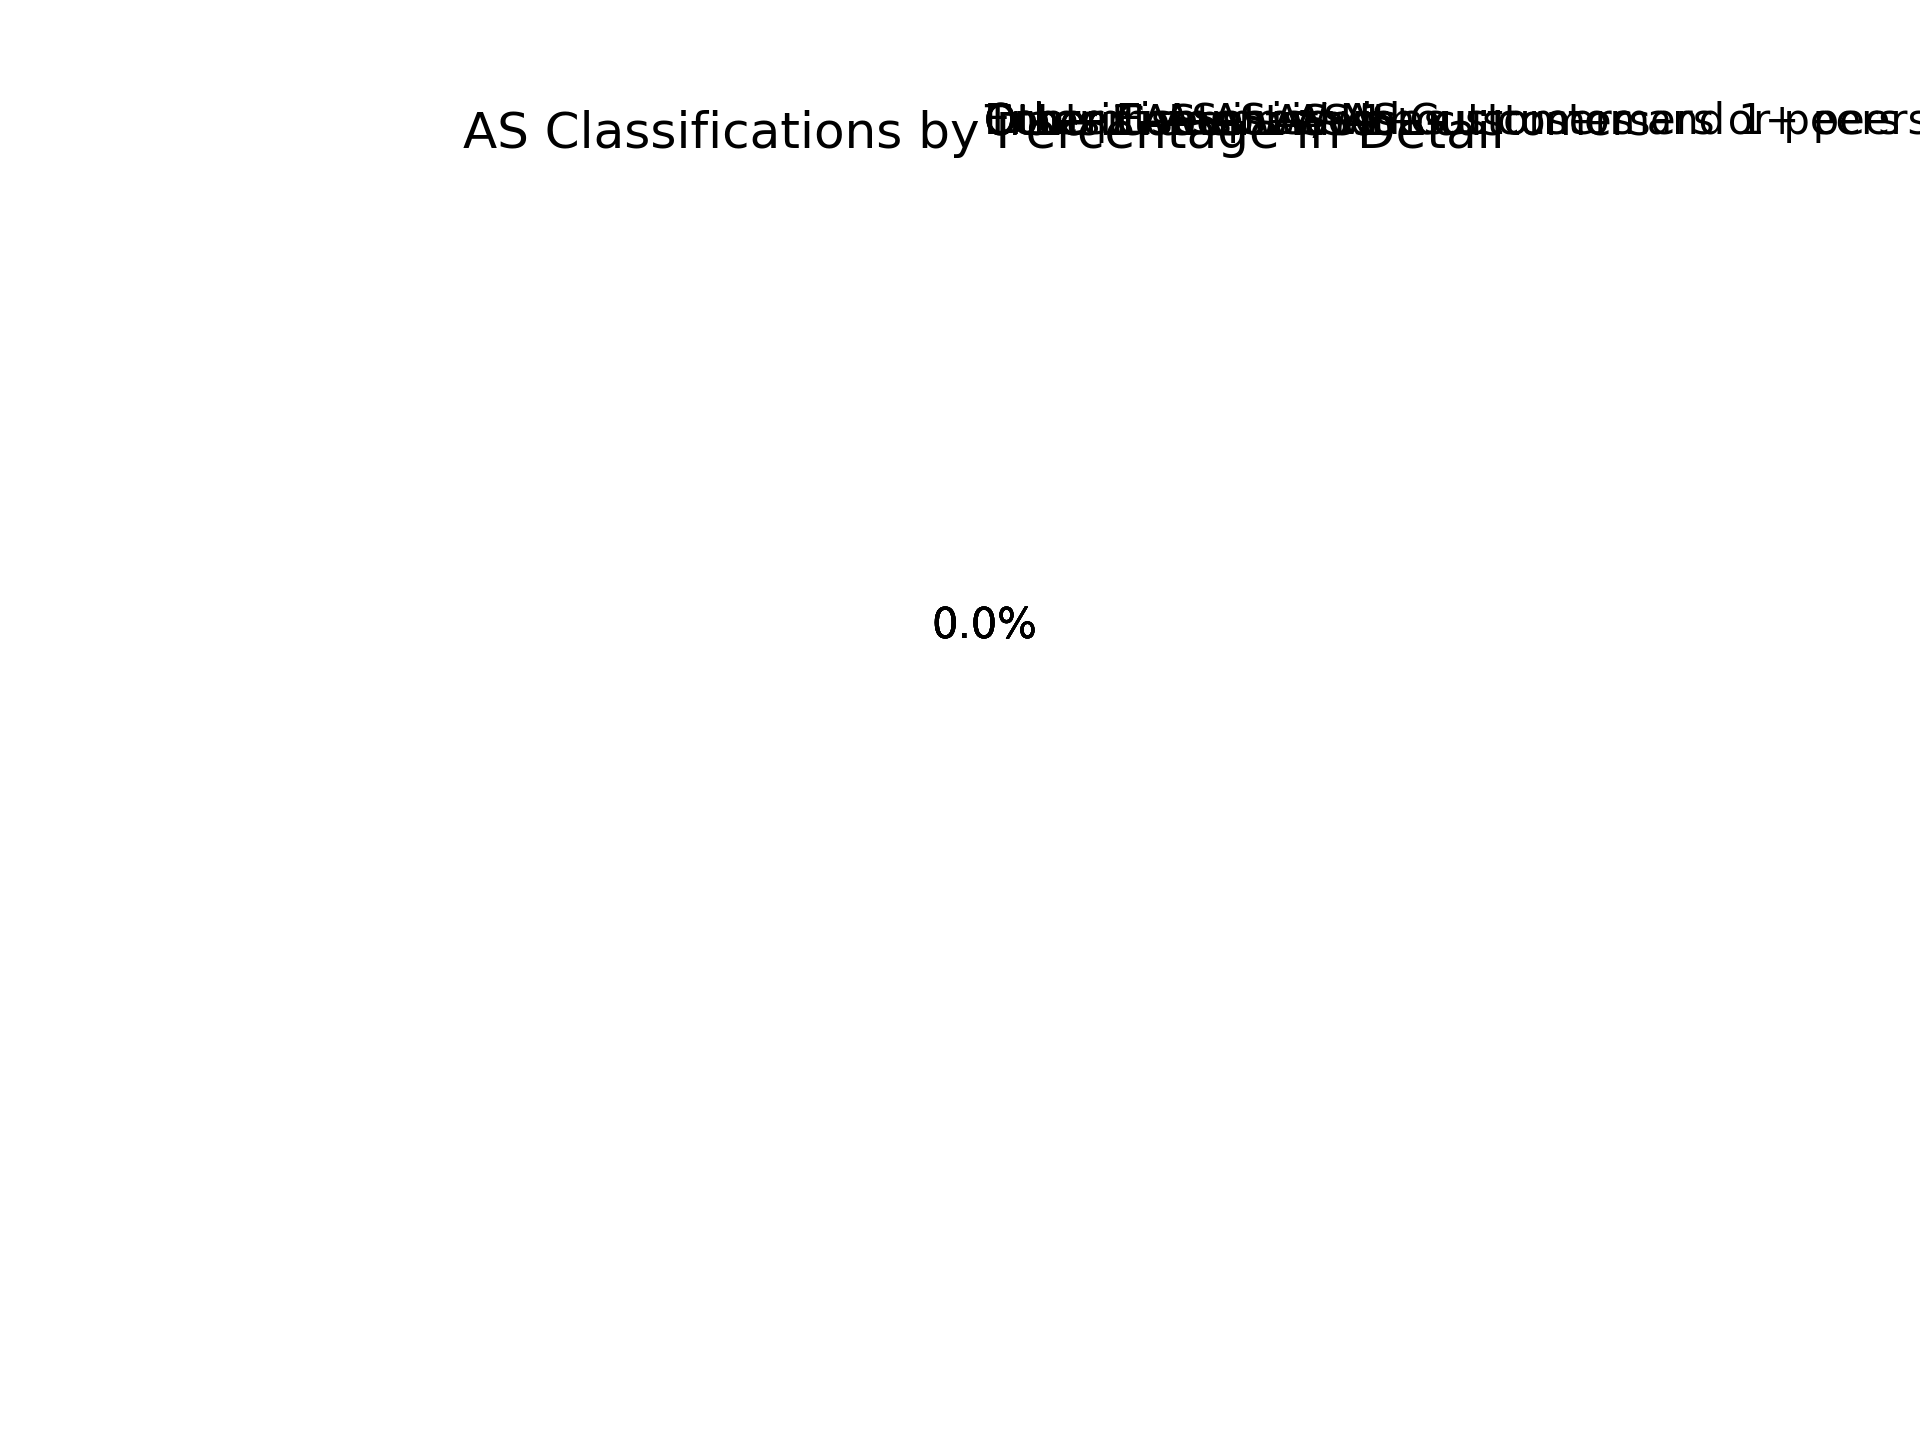
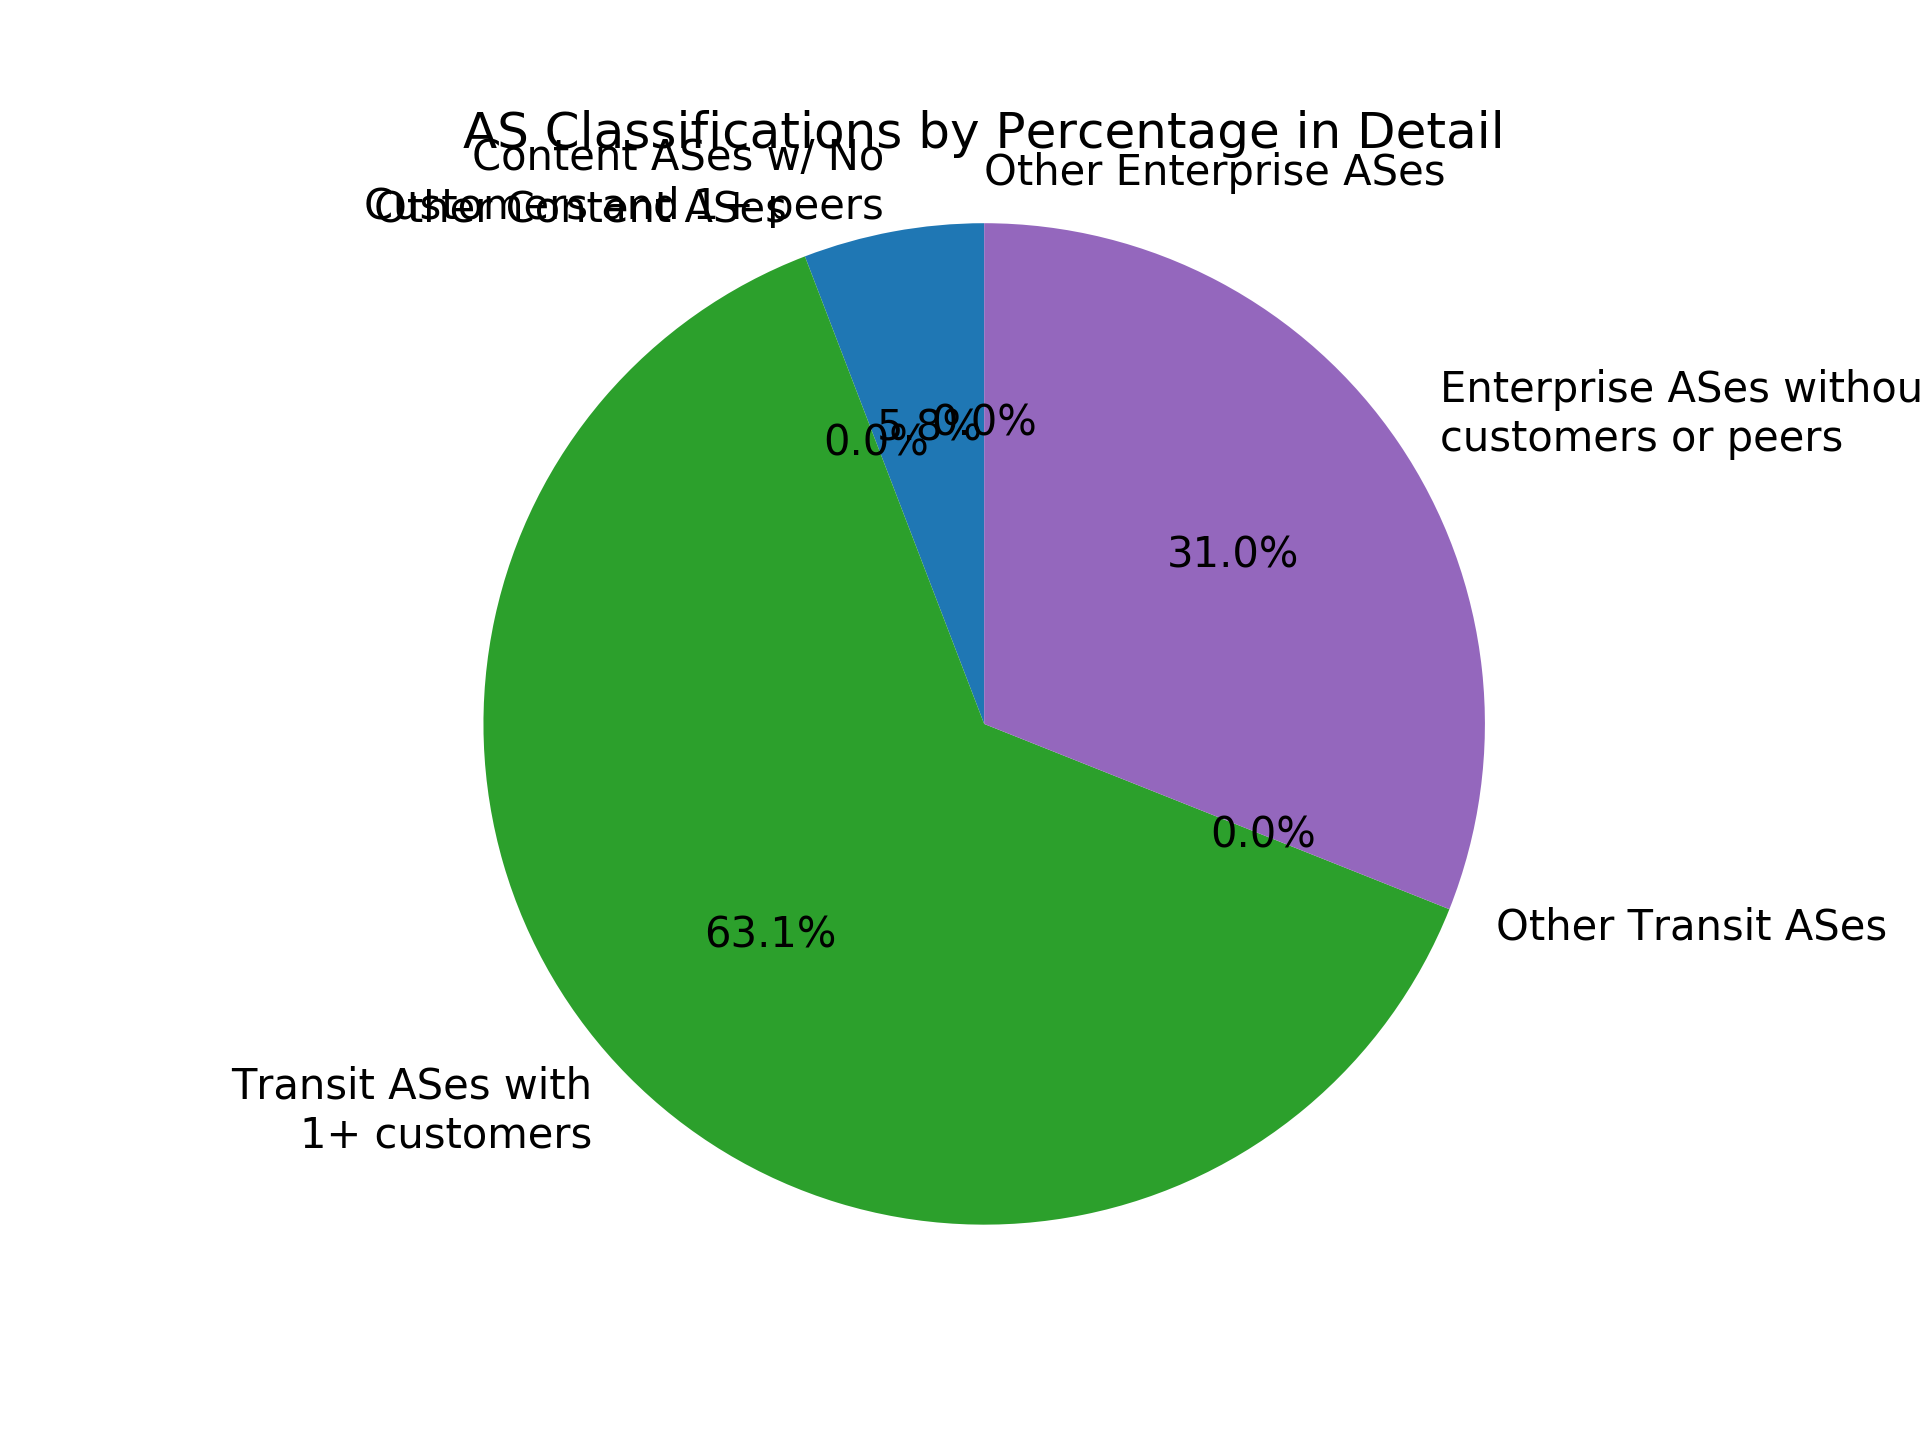
progress

diff --git a/project2_Internet_Topology/src/ASTopology.py b/project2_Internet_Topology/src/ASTopology.py
@@ -55,6 +55,7 @@ class ASTopologyNode:
 		self._classification = classification
 
 	def get_classification(self):
+		print(self._classification)
 		return self._classification
 
 
@@ -74,7 +75,7 @@ class ASTopology:
 			if '#' not in line:
 				line = line.split('|')
 				self._as_data[int(line[0])] = ASTopologyNode(int(line[0]))
-				self._as_data[int(line[0])].add_classification(line[2])
+				self._as_data[int(line[0])].add_classification(line[2].strip())
 
 		classification.close()
 
@@ -236,7 +237,7 @@ class ASTopology:
 			elif 'Enterprise' == item.get_classification():
 				bins[4] += 1
 
-		labels = 'Content ASes w/ No Customers and 1+ peers', 'Other Content ASes', 'Transit ASes with 1+ customers', 'Other Transit ASes', 'Enterprise ASes without customers or peers', 'Other Enterprise ASes'
+		labels = 'Content ASes w/ No\nCustomers and 1+ peers', 'Other Content ASes', 'Transit ASes with\n1+ customers', 'Other Transit ASes', 'Enterprise ASes without\ncustomers or peers', 'Other Enterprise ASes'
 		explode = (0, 0, 0, 0, 0, 0)
 
 		fig1, ax1 = plt.subplots()
